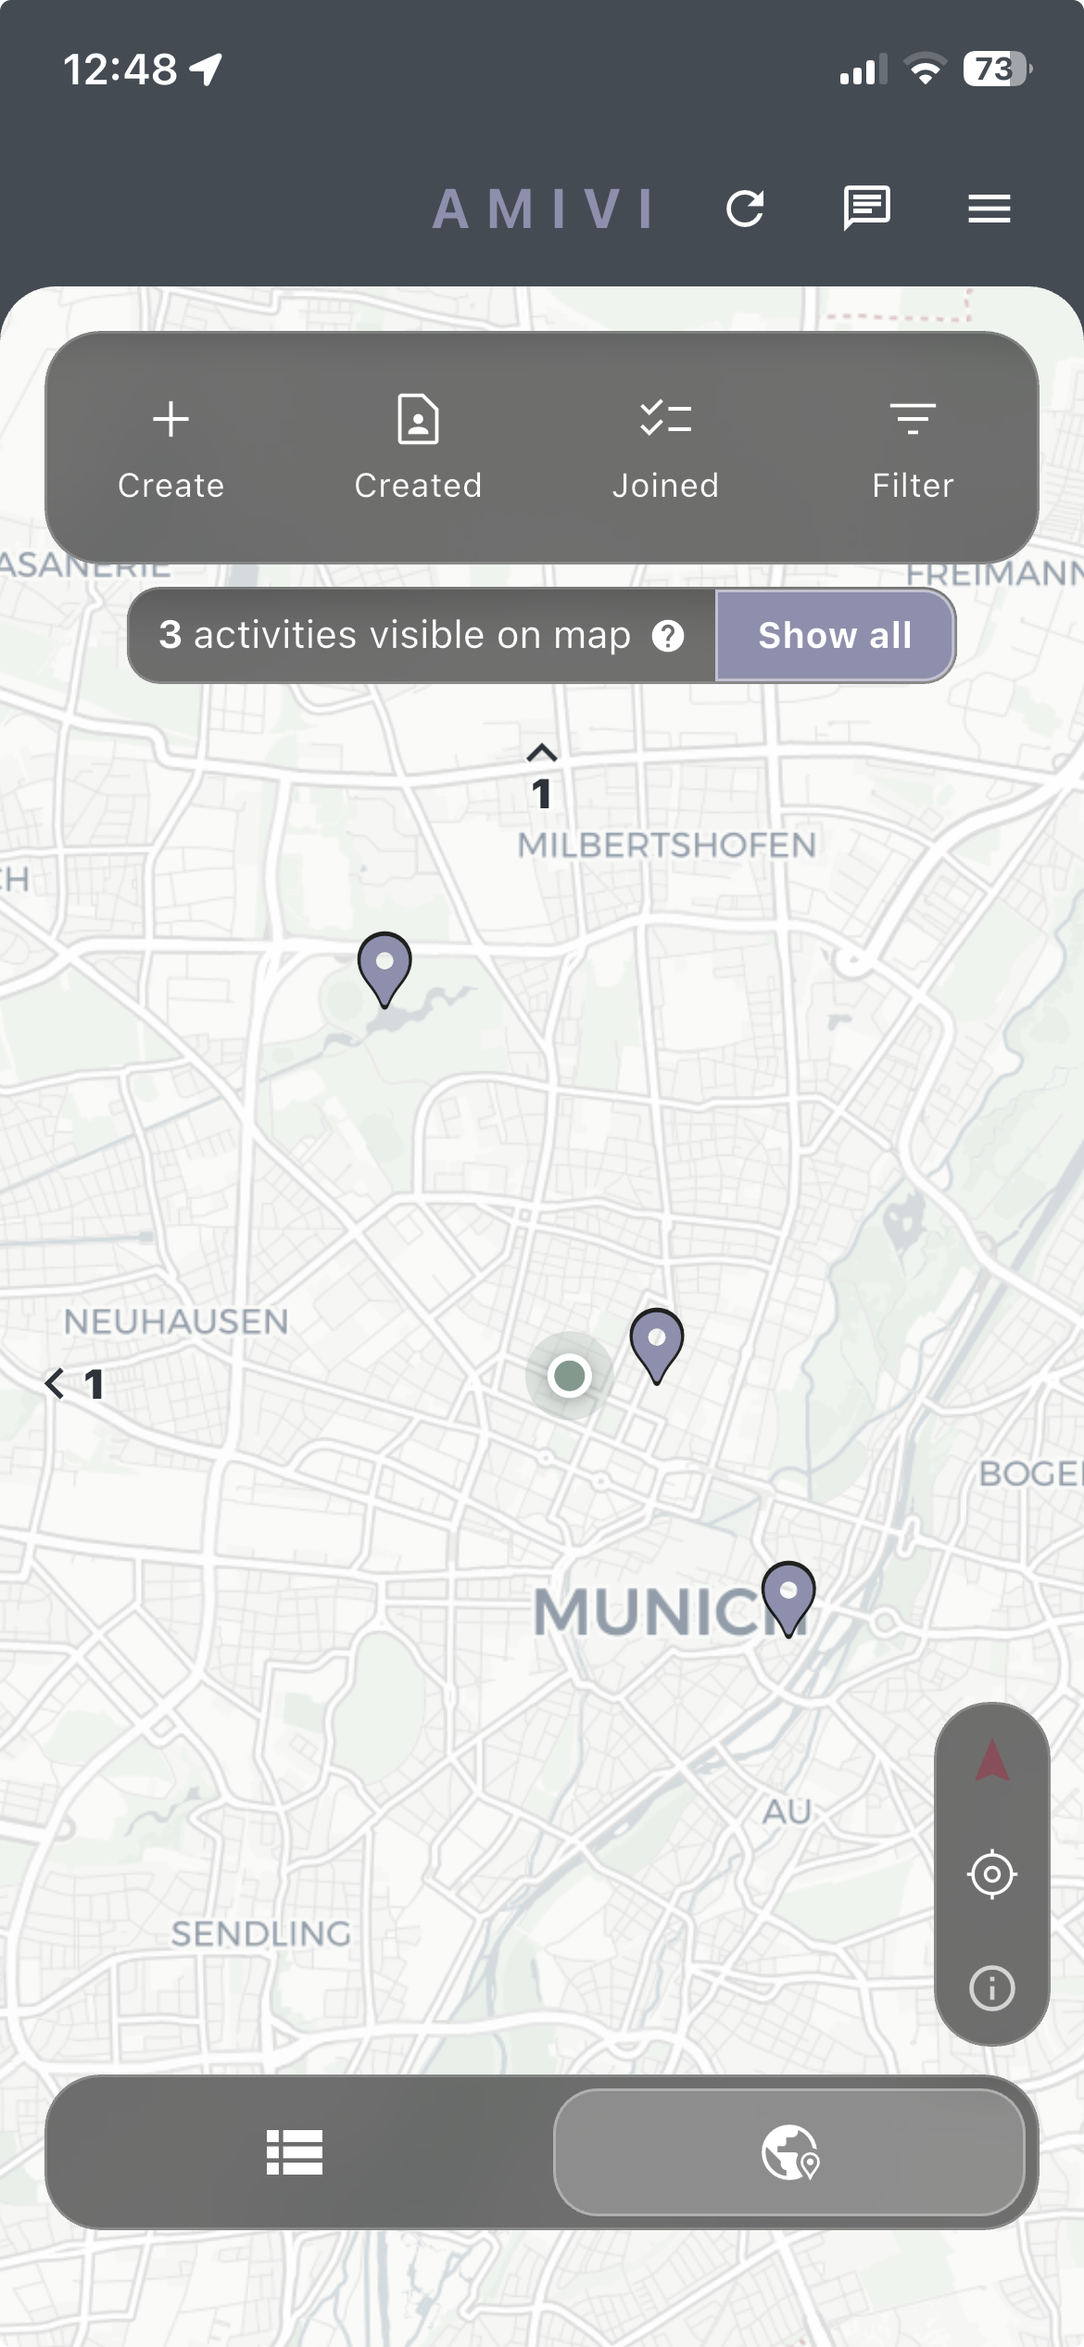
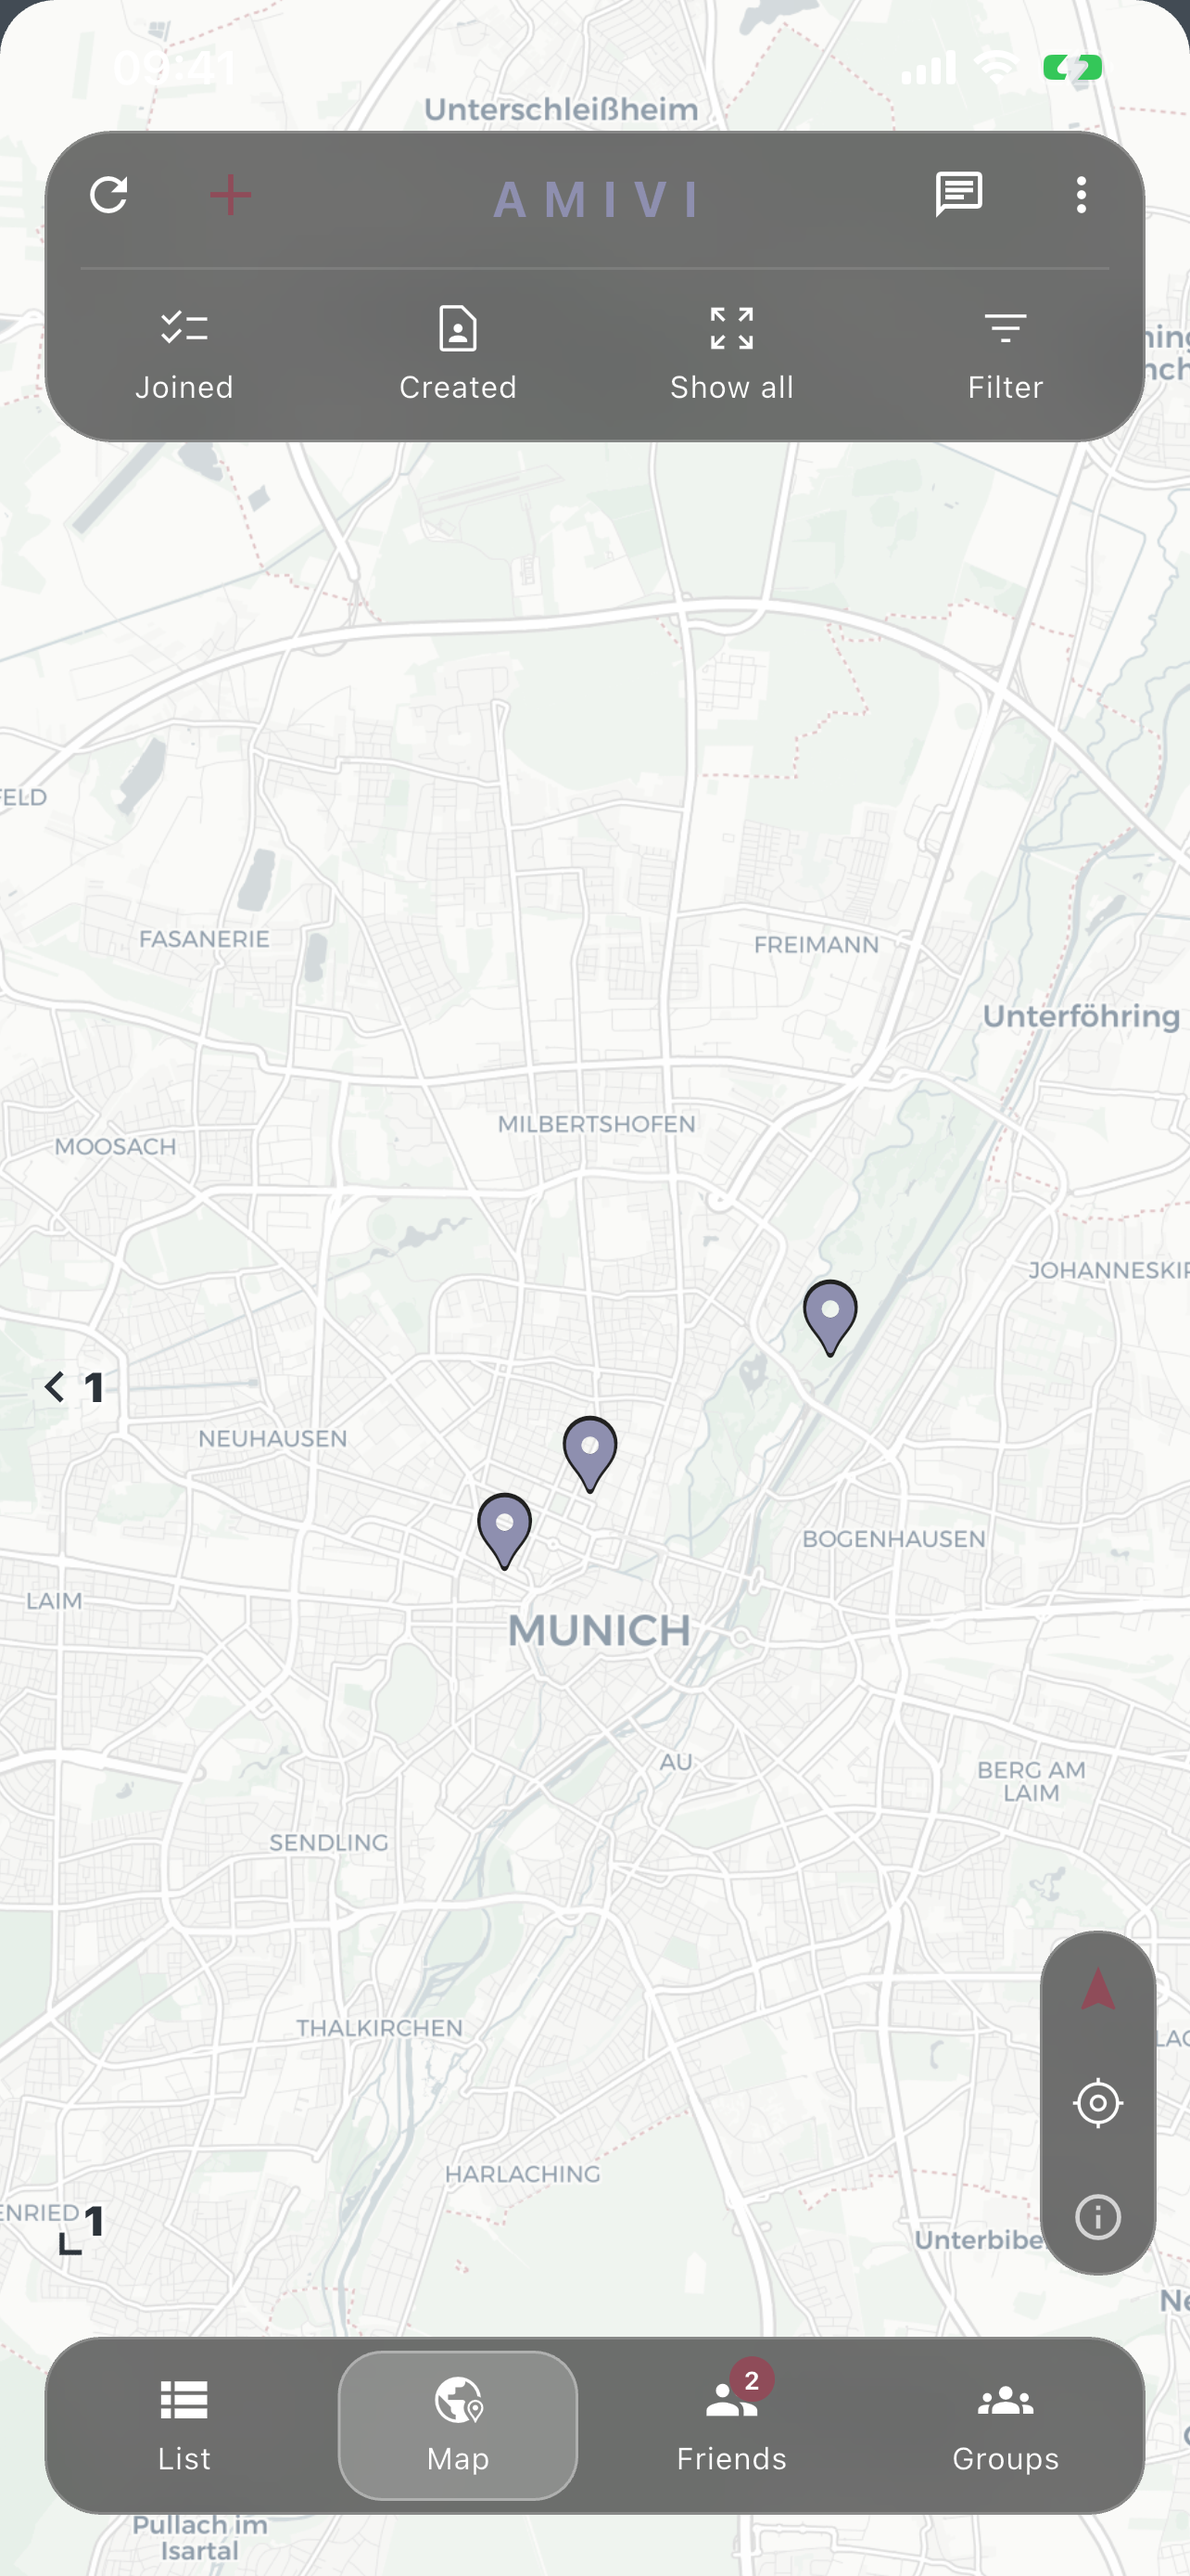
Website auf neue Design-Version aktualisieren
Neues Netzwerk-Logo (ersetzt die AMIVI-Wortmarke, auch als Favicon und
og:image), aktuelle App-Screenshots, iPhone-Rahmen mit Notch und festem
Seitenverhaeltnis statt fixer Hoehe, ueberarbeitete Texte im
"What Amivi is"-Abschnitt.

App-Store-Link erneut auf id6764368727 gesetzt, der Export enthielt
wieder den google.com-Platzhalter.

diff --git a/index.html b/index.html
@@ -5,11 +5,11 @@
 <meta name="viewport" content="width=device-width, initial-scale=1">
 <title>Amivi — Make real plans with real friends</title>
 <meta name="description" content="Amivi is for meeting up with your friends in real life. Plan a hike, a dinner, or a spontaneous hangout — and see what everyone nearby is up to.">
-<link rel="icon" href="assets/img/app-icon.png">
-<link rel="apple-touch-icon" href="assets/img/app-icon.png">
+<link rel="icon" href="assets/img/logo.png">
+<link rel="apple-touch-icon" href="assets/img/logo.png">
 <meta property="og:title" content="Amivi — Make real plans with real friends">
 <meta property="og:description" content="Plan real-life meetups with the friends you already have.">
-<meta property="og:image" content="assets/img/app-icon.png">
+<meta property="og:image" content="assets/img/logo.png">
 <meta property="og:type" content="website">
 <link rel="stylesheet" href="assets/ds/styles.css">
 <style>
@@ -29,7 +29,7 @@
   <header style="position:sticky;top:0;z-index:50;backdrop-filter:blur(20px);-webkit-backdrop-filter:blur(20px);background:rgba(54,62,69,0.72);border-bottom:1px solid rgba(255,255,255,0.10)">
     <nav style="max-width:1180px;margin:0 auto;padding:16px 28px;display:flex;align-items:center;justify-content:space-between;gap:24px">
       <a href="#" style="display:flex;align-items:center;gap:12px;text-decoration:none">
-        <img src="assets/img/app-icon.png" alt="Amivi" style="width:40px;height:40px;border-radius:11px;display:block">
+        <img src="assets/img/logo.png" alt="Amivi" style="width:40px;height:40px;border-radius:11px;display:block">
         <span style="font-weight:800;font-size:18px;letter-spacing:4px;color:#fff">AMIVI</span>
       </a>
       <div style="display:flex;align-items:center;gap:34px">
@@ -65,8 +65,8 @@
     </div>
 
     <div style="position:relative;flex:0 0 auto;margin:0 auto">
-      <div style="position:relative;width:300px;height:620px;border-radius:46px;padding:12px;background:linear-gradient(160deg,#525c66,#363E45);box-shadow:0 40px 80px -24px rgba(0,0,0,0.65);border:1px solid rgba(255,255,255,0.14)">
-        <div style="position:relative;width:100%;height:100%;border-radius:36px;overflow:hidden;background:#363E45">
+      <div style="position:relative;width:298px;border-radius:45px;padding:8px;background:linear-gradient(150deg,#43484e,#0c0e11 52%);box-shadow:0 40px 80px -24px rgba(0,0,0,0.65),inset 0 0 0 1.5px rgba(255,255,255,0.07)">
+        <div style="position:relative;width:100%;aspect-ratio:1284/2778;border-radius:37px;overflow:hidden;background:#000"><div style="position:absolute;top:0;left:50%;transform:translateX(-50%);width:126px;height:28px;background:#000;border-radius:0 0 19px 19px;z-index:3;pointer-events:none"></div>
           <img src="assets/img/screen-hero.png" alt="Amivi app screenshot" style="width:100%;height:100%;object-fit:cover;display:block">
         </div>
       </div>
@@ -77,7 +77,7 @@
   <section id="what" style="background:#3B434C;border-top:1px solid rgba(255,255,255,0.06);border-bottom:1px solid rgba(255,255,255,0.06)">
     <div style="max-width:1180px;margin:0 auto;padding:76px 28px">
       <p style="margin:0 0 10px;font-size:13px;font-weight:700;letter-spacing:2px;text-transform:uppercase;color:#8E8FAF">What Amivi is</p>
-      <h2 style="margin:0 0 48px;font-size:34px;font-weight:800;letter-spacing:-0.5px;max-width:640px">A simple way to turn "we should hang out" into actual plans.</h2>
+      <h2 style="margin:0 0 48px;font-size:34px;font-weight:800;letter-spacing:-0.5px;max-width:680px">Making plans shouldn't mean texting everyone one by one. Post it once, pick who sees it, and invite them all at the same time.</h2>
       <div style="display:grid;grid-template-columns:repeat(auto-fit,minmax(260px,1fr));gap:22px">
         <div style="padding:30px;border-radius:20px;background:rgba(0,0,0,0.28);border:1px solid rgba(255,255,255,0.10)">
           <div style="width:52px;height:52px;border-radius:14px;background:rgba(125,154,141,0.22);display:flex;align-items:center;justify-content:center;margin-bottom:20px">
@@ -90,15 +90,15 @@
           <div style="width:52px;height:52px;border-radius:14px;background:rgba(142,143,175,0.22);display:flex;align-items:center;justify-content:center;margin-bottom:20px">
             <svg width="26" height="26" viewBox="0 0 24 24" fill="none" stroke="#8E8FAF" stroke-width="2" stroke-linecap="round" stroke-linejoin="round"><rect x="3" y="5" width="18" height="16" rx="2"></rect><path d="M16 3v4M8 3v4M3 10h18M12 14v4M10 16h4"></path></svg>
           </div>
-          <h3 style="margin:0 0 8px;font-size:20px;font-weight:700">Create &amp; invite</h3>
-          <p style="margin:0;font-size:16px;line-height:1.55;color:rgba(255,255,255,0.68)">Start an activity in seconds and invite exactly the friends or groups you want.</p>
+          <h3 style="margin:0 0 8px;font-size:20px;font-weight:700">Invite everyone at once</h3>
+          <p style="margin:0;font-size:16px;line-height:1.55;color:rgba(255,255,255,0.68)">Post an activity in seconds and choose exactly who sees it — friends or whole groups. No more messaging people one by one.</p>
         </div>
         <div style="padding:30px;border-radius:20px;background:rgba(0,0,0,0.28);border:1px solid rgba(255,255,255,0.10)">
           <div style="width:52px;height:52px;border-radius:14px;background:rgba(58,110,126,0.28);display:flex;align-items:center;justify-content:center;margin-bottom:20px">
-            <svg width="26" height="26" viewBox="0 0 24 24" fill="none" stroke="#5f9bad" stroke-width="2" stroke-linecap="round" stroke-linejoin="round"><rect x="5" y="11" width="14" height="10" rx="2"></rect><path d="M8 11V8a4 4 0 0 1 8 0v3"></path></svg>
+            <svg width="26" height="26" viewBox="0 0 24 24" fill="none" stroke="#5f9bad" stroke-width="2" stroke-linecap="round" stroke-linejoin="round"><path d="M22 11.08V12a10 10 0 1 1-5.93-9.14"></path><path d="M22 4 12 14.01l-3-3"></path></svg>
           </div>
-          <h3 style="margin:0 0 8px;font-size:20px;font-weight:700">You stay in control</h3>
-          <p style="margin:0;font-size:16px;line-height:1.55;color:rgba(255,255,255,0.68)">You decide who can see what you're planning. Nothing is public by default.</p>
+          <h3 style="margin:0 0 8px;font-size:20px;font-weight:700">Casual, no pressure</h3>
+          <p style="margin:0;font-size:16px;line-height:1.55;color:rgba(255,255,255,0.68)">Friends join only if they feel like it. Invites are low-key — no obligation, no awkward back-and-forth.</p>
         </div>
       </div>
     </div>
@@ -114,8 +114,8 @@
         <p style="margin:0;font-size:18px;line-height:1.6;color:rgba(255,255,255,0.7)">A list &amp; map feed shows your friends activities happening near you. No endless scrolling — just the things you could actually join today.</p>
       </div>
       <div style="flex:0 0 auto;margin:0 auto">
-        <div style="position:relative;width:280px;height:580px;border-radius:44px;padding:11px;background:linear-gradient(160deg,#525c66,#363E45);box-shadow:0 34px 70px -24px rgba(0,0,0,0.6);border:1px solid rgba(255,255,255,0.14)">
-          <div style="position:relative;width:100%;height:100%;border-radius:34px;overflow:hidden;background:#363E45">
+        <div style="position:relative;width:278px;border-radius:42px;padding:7px;background:linear-gradient(150deg,#43484e,#0c0e11 52%);box-shadow:0 34px 70px -24px rgba(0,0,0,0.6),inset 0 0 0 1.5px rgba(255,255,255,0.07)">
+          <div style="position:relative;width:100%;aspect-ratio:1284/2778;border-radius:35px;overflow:hidden;background:#000"><div style="position:absolute;top:0;left:50%;transform:translateX(-50%);width:118px;height:26px;background:#000;border-radius:0 0 18px 18px;z-index:3;pointer-events:none"></div>
             <img src="assets/img/screen-discover.png" alt="Amivi map discover screen" style="width:100%;height:100%;object-fit:cover;display:block">
           </div>
         </div>
@@ -129,8 +129,8 @@
         <p style="margin:0;font-size:18px;line-height:1.6;color:rgba(255,255,255,0.7)">Create an activity and pick the friends or groups to invite. Everyone sees who's coming, and plans come together in one place.</p>
       </div>
       <div style="flex:0 0 auto;margin:0 auto">
-        <div style="position:relative;width:280px;height:580px;border-radius:44px;padding:11px;background:linear-gradient(160deg,#525c66,#363E45);box-shadow:0 34px 70px -24px rgba(0,0,0,0.6);border:1px solid rgba(255,255,255,0.14)">
-          <div style="position:relative;width:100%;height:100%;border-radius:34px;overflow:hidden;background:#363E45">
+        <div style="position:relative;width:278px;border-radius:42px;padding:7px;background:linear-gradient(150deg,#43484e,#0c0e11 52%);box-shadow:0 34px 70px -24px rgba(0,0,0,0.6),inset 0 0 0 1.5px rgba(255,255,255,0.07)">
+          <div style="position:relative;width:100%;aspect-ratio:1284/2778;border-radius:35px;overflow:hidden;background:#000"><div style="position:absolute;top:0;left:50%;transform:translateX(-50%);width:118px;height:26px;background:#000;border-radius:0 0 18px 18px;z-index:3;pointer-events:none"></div>
             <img src="assets/img/screen-create.png" alt="Amivi create activity screen" style="width:100%;height:100%;object-fit:cover;display:block">
           </div>
         </div>
@@ -144,8 +144,8 @@
         <p style="margin:0;font-size:18px;line-height:1.6;color:rgba(255,255,255,0.7)">Get live updates on who's joining — so nobody gets left out of the plan.</p>
       </div>
       <div style="flex:0 0 auto;margin:0 auto">
-        <div style="position:relative;width:280px;height:580px;border-radius:44px;padding:11px;background:linear-gradient(160deg,#525c66,#363E45);box-shadow:0 34px 70px -24px rgba(0,0,0,0.6);border:1px solid rgba(255,255,255,0.14)">
-          <div style="position:relative;width:100%;height:100%;border-radius:34px;overflow:hidden;background:#363E45">
+        <div style="position:relative;width:278px;border-radius:42px;padding:7px;background:linear-gradient(150deg,#43484e,#0c0e11 52%);box-shadow:0 34px 70px -24px rgba(0,0,0,0.6),inset 0 0 0 1.5px rgba(255,255,255,0.07)">
+          <div style="position:relative;width:100%;aspect-ratio:1284/2778;border-radius:35px;overflow:hidden;background:#000"><div style="position:absolute;top:0;left:50%;transform:translateX(-50%);width:118px;height:26px;background:#000;border-radius:0 0 18px 18px;z-index:3;pointer-events:none"></div>
             <img src="assets/img/screen-participants.png" alt="Amivi activity participants screen" style="width:100%;height:100%;object-fit:cover;display:block">
           </div>
         </div>
@@ -159,7 +159,7 @@
     <div style="max-width:1180px;margin:0 auto;padding:56px 28px 40px;display:flex;justify-content:space-between;gap:40px;flex-wrap:wrap">
       <div style="max-width:320px">
         <div style="display:flex;align-items:center;gap:12px;margin-bottom:16px">
-          <img src="assets/img/app-icon.png" alt="Amivi" style="width:36px;height:36px;border-radius:10px;display:block">
+          <img src="assets/img/logo.png" alt="Amivi" style="width:36px;height:36px;border-radius:10px;display:block">
           <span style="font-weight:800;font-size:16px;letter-spacing:4px;color:#fff">AMIVI</span>
         </div>
         <p style="margin:0;font-size:14px;line-height:1.6;color:rgba(255,255,255,0.55)">Plan real-life meetups with the friends you already have.</p>
